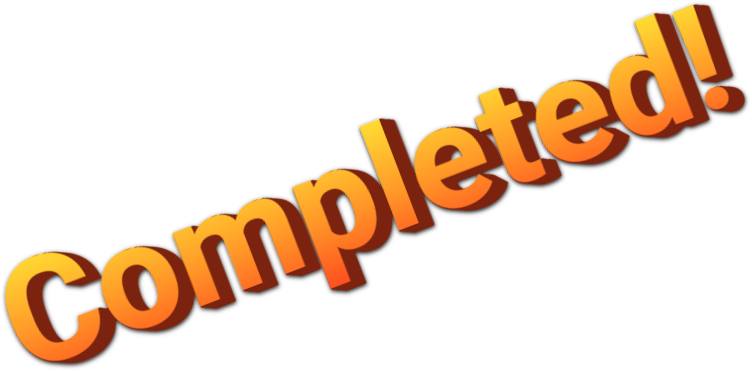
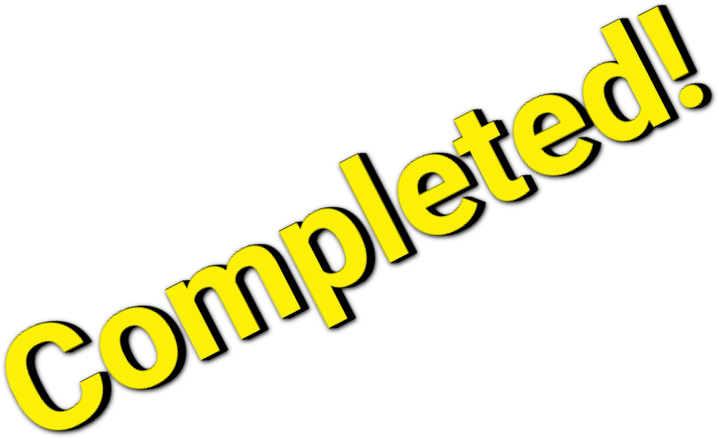
added third challenge

Changed region(s): [[0.0, 0.0, 1.0, 1.0]]

diff --git a/slides.md b/slides.md
@@ -254,7 +254,7 @@ class: text-center pt-40 color-white
 </v-click>
 <div class="absolute right-10 w-90 color-white" v-after>
   <h3 class="mb-5">Learnings</h3>
-  <span>We can fetch and render content for a full page, or part of it by:</span>
+  <span>We can replace content of the full page, or part of it by:</span>
   <ul>    
     <li v-click="2">storing content promise(s) into React state</li>
     <li v-click="3">updating the state as we fetch new content</li>
@@ -316,3 +316,290 @@ createRoot(document.getElementById("root")).render(<Layout />);
 ```
 ````
 </div>
+
+---
+layout: two-cols-header
+class: text-center
+---
+<style>
+  .col-header {
+    font-size: 32px;
+    color: white;
+  }
+</style>
+
+<div class="text-center">What can we do with our learnings?</div>
+
+::left::
+
+# Page Navigation
+
+## Replace Updated Content
+
+::right::
+
+<ul class="color-white text-left">    
+    <li>Why not using HTML?</li>
+    <li v-click>Not a strong reason to use RSC in this case</li>
+</ul>
+
+---
+class: text-center pt-40 color-white
+---
+<img v-click
+    class="absolute w-100 opacity-100 left-70 top-40"
+    src="./completed.png"
+    alt=""
+  />
+
+# 2nd Challenge
+
+<hr class="w-10 ml-100 mb-5"/>
+
+## Can we navigate different pages with RSC?
+
+<hr class="w-10 ml-100 mt-5 mb-5"/>
+
+# Replaceable Static Content
+
+---
+class: text-center pt-40 color-white
+---
+
+# 3rd Challenge
+
+<hr class="w-10 ml-100 mb-5"/>
+
+## Can we split rendering between a server and a client with RSC?
+
+<hr class="w-10 ml-100 mt-5 mb-5"/>
+
+# React Server<small>(and)</small>Client
+
+---
+class: text-center pt-40 color-white
+---
+<img v-click
+    class="absolute w-100 opacity-100 left-70 top-40"
+    src="./completed.png"
+    alt=""
+  />
+
+# 3rd Challenge
+
+<hr class="w-10 ml-100 mb-5"/>
+
+## Can we split rendering between a server and a client with RSC?
+
+<hr class="w-10 ml-100 mt-5 mb-5"/>
+
+# React Server<small>(and)</small>Client
+
+---
+
+
+<div class="absolute right-10 w-90 color-white">
+  <h3 class="mb-5">Learnings</h3>
+  <span>We need a condition on the starting script to enable react in server mode<br/></span>
+  <span v-click="1">We can "pre-cook" content on a server by:</span>
+  <ul>    
+    <li v-click="2">creating a /rsc endpoint</li>
+    <li v-click="3">invoking renderToPipeableStream on a (server) component</li>
+    <li v-click="4">"pipeing" the result on the backend response object</li>
+  </ul>
+  <span v-click="5">The server components have some limitations:</span>
+  <ul>    
+    <li v-click="6">can't use any of the usual hooks, to manage state</li>
+    <li v-click="7">can't use context either</li>
+    <li v-click="8">this is because they are, by design, stateless</li>
+  </ul>
+  
+</div>
+
+<div class="w-120 mt-10">
+```sh
+node --conditions=react-server server.js
+```
+</div>
+
+<div class="w-120" v-click="1">
+```js {*|*|12-15|13|14|*}
+import Fastify from "fastify";
+import { renderToPipeableStream } 
+  from "react-server-dom-esm/server";
+
+function App() => <div>Hello world!</div>;
+
+export async function main() {
+  const server = Fastify();
+
+  server.get("/", (_, reply) => reply.html();
+
+  server.get("/rsc", (_, reply) => {
+    const { pipe } = renderToPipeableStream(<App/>);
+    pipe(reply.raw);
+  });
+
+  return server;
+}
+
+const server = await main();
+await server.listen({ port: 3000 });
+```
+</div>
+
+---
+class: text-center mt-10
+---
+
+```mermaid {markdownAutoWrap: false}
+flowchart TD
+  A@{shape: circle, label: "React Tree"}
+  B@{img: "./rsc_payload_1.png", w: 350, constraint: "on"}
+  A -- Serialize (renderToPipeableStream) --> B
+  B -- Deserialize (createFromFetch) --> HTML[&lt;div&gt;Hello World!&lt;/div&gt;]
+```
+---
+
+<v-click hide>
+<img 
+    class="absolute w-100 opacity-100 right-10 top-10"
+    src="./third_example_ui.gif"
+    alt=""
+  />
+</v-click>
+
+<div class="absolute right-10 w-90 color-white" v-after>
+  <h3 class="mb-5">Learnings</h3>
+  <ul>    
+    <li v-click="2">Client (only) components can be created using the directive use client.</li>
+    <li v-click="3">We can use client components in server components, not the other way around</li>
+    <li v-click="4">Client components are translated into an import chunk (I)...</li>
+    <li v-click="5">...and one ore more lazy references ($L) by React Flight</li>
+  </ul>
+</div>
+
+<div class="w-120">
+```js {*|1}
+"use client";
+
+export const MyClientComponent = ({ content }) =>
+  <button onClick={() => alert("Clicked!")}>{content}</button>;
+```
+</div>
+
+<div class="w-120">
+```js {*|9}
+import Fastify from "fastify";
+import { renderToPipeableStream } 
+  from "react-server-dom-esm/server";
+import { MyClientComponent } 
+  from "./client/my-client-component.js"
+
+function App() => (<div>
+  <h1>Hello world!</h1>
+  <MyClientComponent content="Click me!"/>
+</div>);
+
+export async function main() {
+  ...
+  server.get("/rsc", (_, reply) => {
+    const basePath = new URL("./client", import.meta.url).href;
+    const { pipe } = renderToPipeableStream(<App/>, basePath);
+    pipe(reply.raw);
+  });
+  return server;
+}
+```
+</div>
+
+<div class="absolute w-100 bottom-10 right-10">
+```json {*|1|4}
+a:I["/my-client-component.js","MyClientComponent"]
+0:["$","div",null,{"children":[
+  ["$", "div", null, {"children": "Hello World!"}], 
+  ["$", "$La", "a", {"content": "Click here!"}]]}
+]
+```
+</div>
+---
+
+<div class="absolute right-10 w-90 color-white">
+  <h3 class="mb-5">Learnings</h3>
+  <ul>    
+    <li v-click="1">renderToPipeableStream needs an additional parameter to resolve client components path</li>
+    <li v-click="2">on the client side, we need the same in createFromFetch</li>
+    <li v-click="3">a custom loader, or a bundler,  is needed on the backend to handle client components</li>
+  </ul>
+</div>
+
+<div class="w-120">
+```js {*|15-16}
+import Fastify from "fastify";
+import { renderToPipeableStream } 
+  from "react-server-dom-esm/server";
+import { MyClientComponent } 
+  from "./client/my-client-component.js"
+
+function App() => (<div>
+  <h1>Hello world!</h1>
+  <MyClientComponent content="Click me!"/>
+</div>);
+
+export async function main() {
+  ...
+  server.get("/rsc", (_, reply) => {
+    const basePath = new URL("./client", import.meta.url).href;
+    const { pipe } = renderToPipeableStream(<App/>, basePath);
+    pipe(reply.raw);
+  });
+  return server;
+}
+```
+
+```js {*|3}
+const initialContent = createFromFetch(
+  fetch("/rsc", {
+    moduleBaseURL: window.location.origin
+  })
+)
+```
+</div>
+
+<div class="absolute w-90 bottom-10 right-10">
+```sh {none|1}
+node --import ./register-rsc-loader.js ...
+```
+```js {none|*}
+import { load as reactLoad } 
+  from "react-server-dom-ems/node-loader";
+...
+```
+</div>
+
+---
+layout: two-cols-header
+class: text-center
+---
+<style>
+  .col-header {
+    font-size: 32px;
+    color: white;
+  }
+</style>
+
+<div class="text-center">What can we do with our learnings?</div>
+
+::left::
+
+# SSR
+
+## Server Side Rendering
+
+::right::
+
+<ul class="color-white text-left">    
+    <li>renderToString --> HTML</li>
+    <li v-click>renderToPipeableStream --> RSC</li>
+    <li v-click>Still nothing really impressive...</li>
+</ul>
